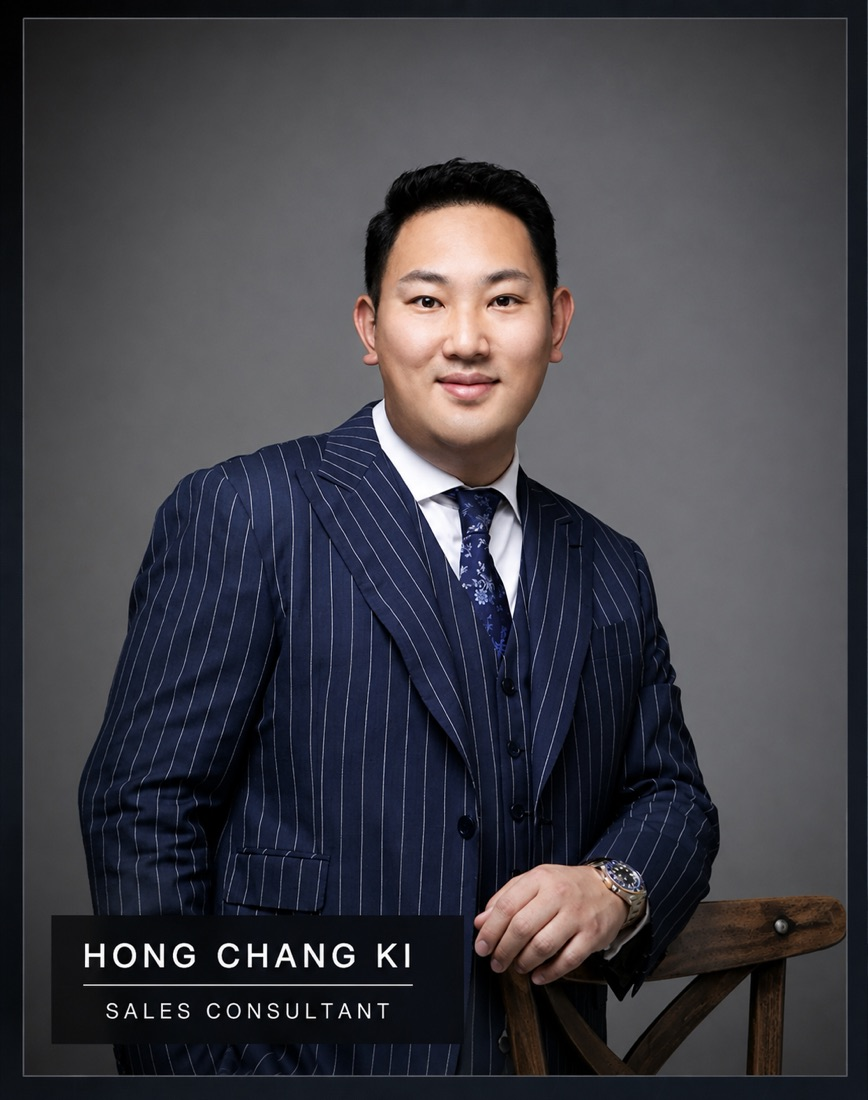
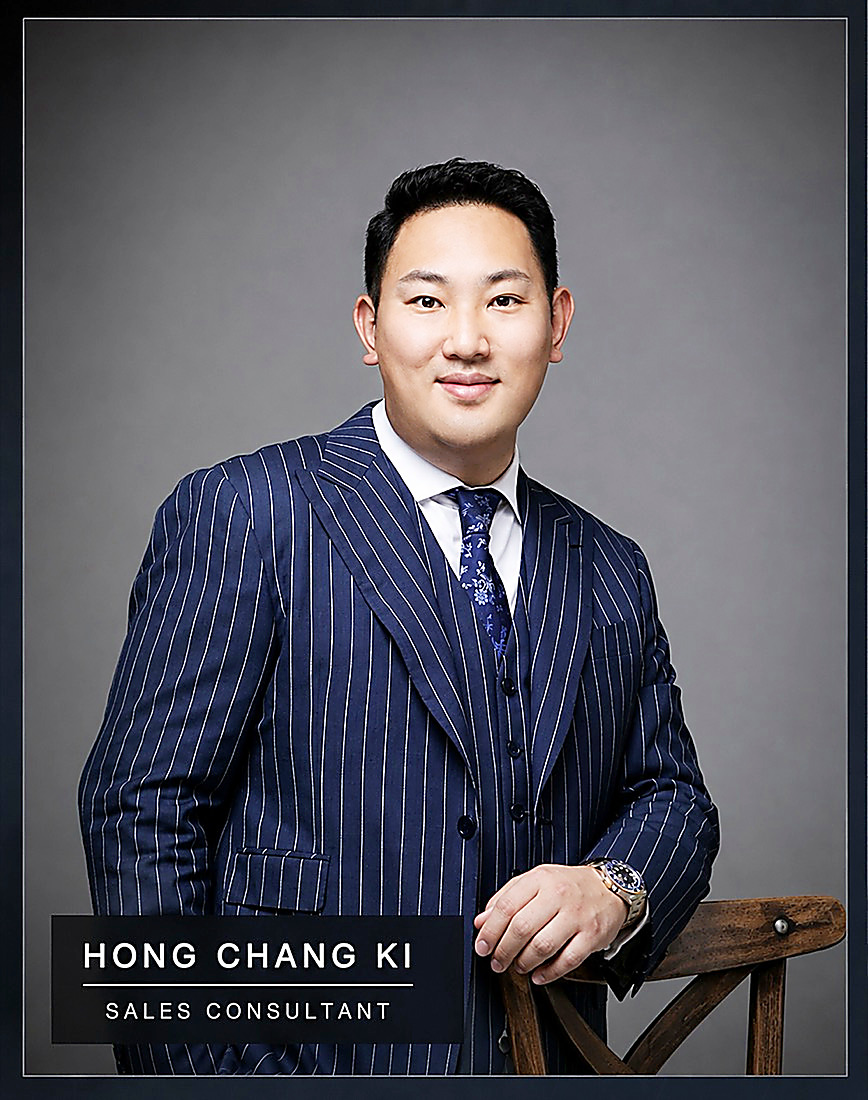
프로필 사진 밝기·선명도 보정
원본이 전반적으로 어두워 중간톤을 들어올리고 선명도를 올렸다.
- 0과 255를 고정한 sin 커브로 중간톤만 +34 (검정 테두리·흰 셔츠 안 날아감)
- 채도 +10%, 1.5배 확대 후 언샵 → 원래 크기로 되돌려 halo 없이 또렷하게
- 원본은 images/_이전_E300S580/profile_원본.jpg 에 보관

CSS 의 filter:saturate(.92) 를 제거했다 — 파일에 보정을 구워 넣은 상태에서
채도를 다시 빼면 어두워 보이는 원인이 그대로 남는다.

해상도는 그대로 868x1100 이다. 표시 폭 409px · DPR 2 라 레티나에도 충분하고,
키우면 homepage.html(단일 파일) 용량만 커진다.

Claude-Session: https://claude.ai/code/session_012jZNEJNfVQYoxcBbqoWRJS

diff --git a/index.html b/index.html
@@ -145,7 +145,7 @@ button,input,select{font:inherit;color:inherit}
 @media(min-width:900px){.hero__grid{grid-template-columns:minmax(0,.85fr) minmax(0,1.15fr)}}
 
 .portrait{position:relative;border:1px solid var(--line);border-radius:var(--r);overflow:hidden;background:var(--surface)}
-.portrait img{width:100%;height:auto;filter:saturate(.92) contrast(1.03)}
+.portrait img{width:100%;height:auto}  /* 보정은 파일에 구워 넣었다 — CSS 로 채도를 빼면 다시 어두워진다 */
 .portrait figcaption{
   position:absolute;left:0;right:0;bottom:0;
   padding:1.5rem 1.15rem .95rem;
